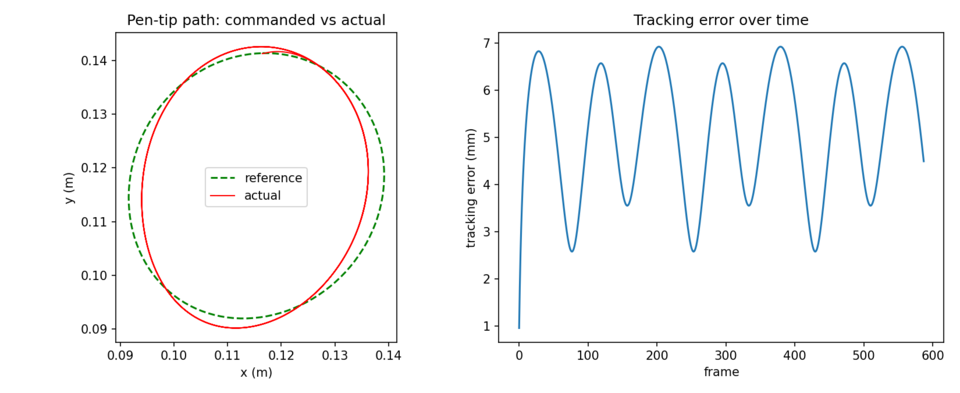
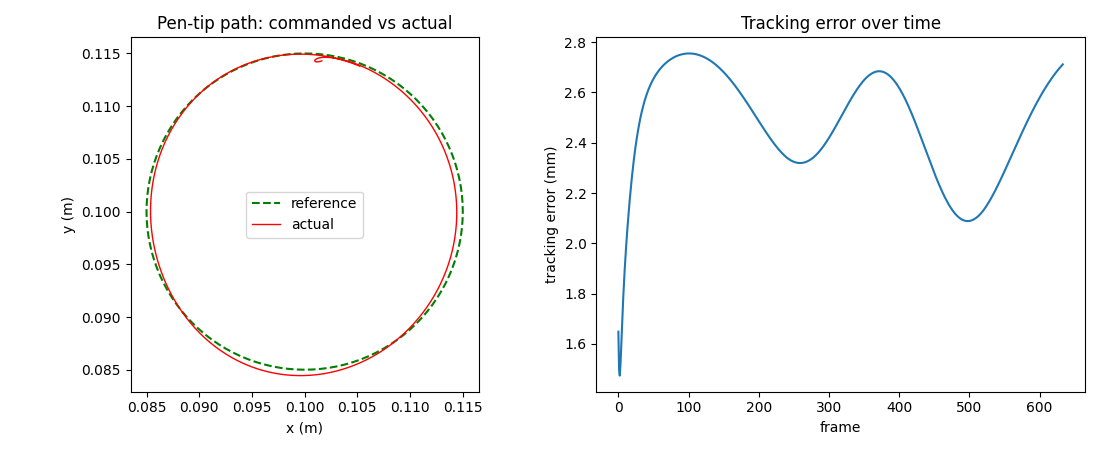
new file:   content/competitions/robocup2023/ele.jpeg 	modified:   content/competitions/robocup2023/index.md 	modified:   content/projects/Robotic-Arm/tracking_summary.png 	modified:   layouts/index.html

diff --git a/layouts/index.html b/layouts/index.html
@@ -6,7 +6,7 @@
     <h1>Sanjay Ramkumar</h1>
     <h3>Aerospace Engineering Student<br>Indian Institute of Space Science and Technology (IIST)</h3>
     <p class="tagline">Robotics • Mechatronics • Space Systems</p>
-    <p>Aspiring Robotics Engineer - from Dynamics and Mechanical Design to Control and Optimization</p>
+    <p>Aspiring Robotics Engineer - from Dynamics modelling and Mechanical Design to Control and Optimization</p>
     <div class="buttons">
       <a class="button ghost" href="/resume.pdf">Resume</a>
       <a class="button ghost" href="https://github.com/sanjayramkumar27">GitHub</a>

diff --git a/content/competitions/robocup2023/index.md b/content/competitions/robocup2023/index.md
@@ -27,8 +27,7 @@ cover:
 ## Problem Statement
 Build an autonomous robot capable of following a line with green markers, avoiding obstacles, traversing over ramps, speed-bumps and sew-saw. Inside the Evacuation zone, the robot's task is to pick up the silver balls and drop them in the green safe zone and pick up the black balls and drop them in a red safe zone.
 
-## System Overview
-### Mechanical Design
+## Mechanical Design Overview
   - Went through 6 prototypes and finally landed on N20 motors for each wheel. Regular wheel in the front and omni-directional wheels in the back.
   - Fully designed in OnShape around DFA and DFM principles.
   - 3D printed parts with Acrylic chassis
@@ -40,45 +39,34 @@ Build an autonomous robot capable of following a line with green markers, avoidi
   {{< figure src="back.jpg" alt="CAD Model" caption="Back View" >}}
   </div>
 
-### Electronics
-  - Low level motor control and sensor data processing were handled by Teensy 4.0
-  - High level ML based object detection for balls and safe zone detection handled by Raspberry Pi 4
-  - The sensor suite included a IMU - MPU6050, motor encoders (one for each wheel), i2C expander, color sensors, Time of flight sensors and IR sensors
-  - A total of 5 servos were used for picking up the balls, separating and depositing them.
-  - The i2C expander enabled i2C communication to multiple sensors having same i2C address.
-
-### Control Systems
-  - PD control for each motor
-  - Ball tracking during evacuation zone
-  - Ramp detection followed by speed increase
-
-### ML based ball and safe zone detection
-  - TensorflowLite with SSD MobileNet v2 FPN-Lite 320
-  - Dataset contained 250 images of victims and safe zones under various lighting and exposure conditions
-  - Split the dataset to train, test and validation
-  - Images were labelled using labelImg software
-  - Achieved over 85% accuracy in detection
-
-  {{< figure src="camera.jpg" alt="Camera View" caption="Silver Ball Detection" >}}
-
 
 ## My Contributions
 ### Electronics
-- Started with an Arduino Uno for the low level control, but since each motor required two interrupt pins, I switched to Teensy 4.0 since it has more hardware interrupt pins
+- Started with an Arduino Uno for the low level control, but since each motor required two interrupt pins, I switched to Teensy 4.0 since it has more hardware interrupt pins. Teensy 4.0 handled the low level motor control and sensor data processing.
 - Used Raspberry Pi 4 for the ML based object detection to distribute the workload between the two processors.
+- The sensor suite included a IMU - MPU6050, motor encoders (one for each wheel), i2C expander, color sensors, Time of flight sensors and IR sensors
 - The robot required multiple color and time of flight sensors with same i2C address, so i used an i2C expander to communicate with each sensor independently
 - Used MPU6050 for ramp detection and increase speed to avoid stalling. The IMU was also used to make accurate turns in the evacuation zone in the presence of debris.
 - Used the Pi camera for Object detection
 - Used Buck converters to provide the different voltage rails required by the system.
 - Used limit switches to detect obstacles.
+- A total of 5 servos were used for picking up the balls, separating and depositing them.
+
+{{< figure src="ele.jpeg" alt="Electronics" caption="View of entire Electronics system" >}}
+
 
 ### Control Systems
 - Implemented a PD controller for each motor to maintain a constant RPM under varied conditions
 - Developed a proportional ball tracking controller using the bounding box coordinates provided by the object detector. The centre of the camera frame was used as reference, allowing the robot to align itself with the ball before initiating the pickup sequence.
 
+{{< figure src="camera.jpg" alt="Camera View" caption="Silver Ball Detection" >}}
+
 ### Software
 - The Teensy was programmed in C++ using the Arduino IDE. The software was organized into separate functions rather than placing all functionality in a single file, improving readability and simplifying debugging.
 - The Raspberry Pi 4 used Python+OpenCV+TensorFlow.
+- TensorflowLite with SSD MobileNet v2 FPN-Lite 320
+- Dataset contained 250 images of victims and safe zones under various lighting and exposure conditions
+- Achieved over 85% accuracy in detection
 - A serial communication was setup between the Teensy and the RPi4, to initiate the ML algorithm, transmit bounding box coordinates and coordinate the ball pick up and drop sequence.
 
 
